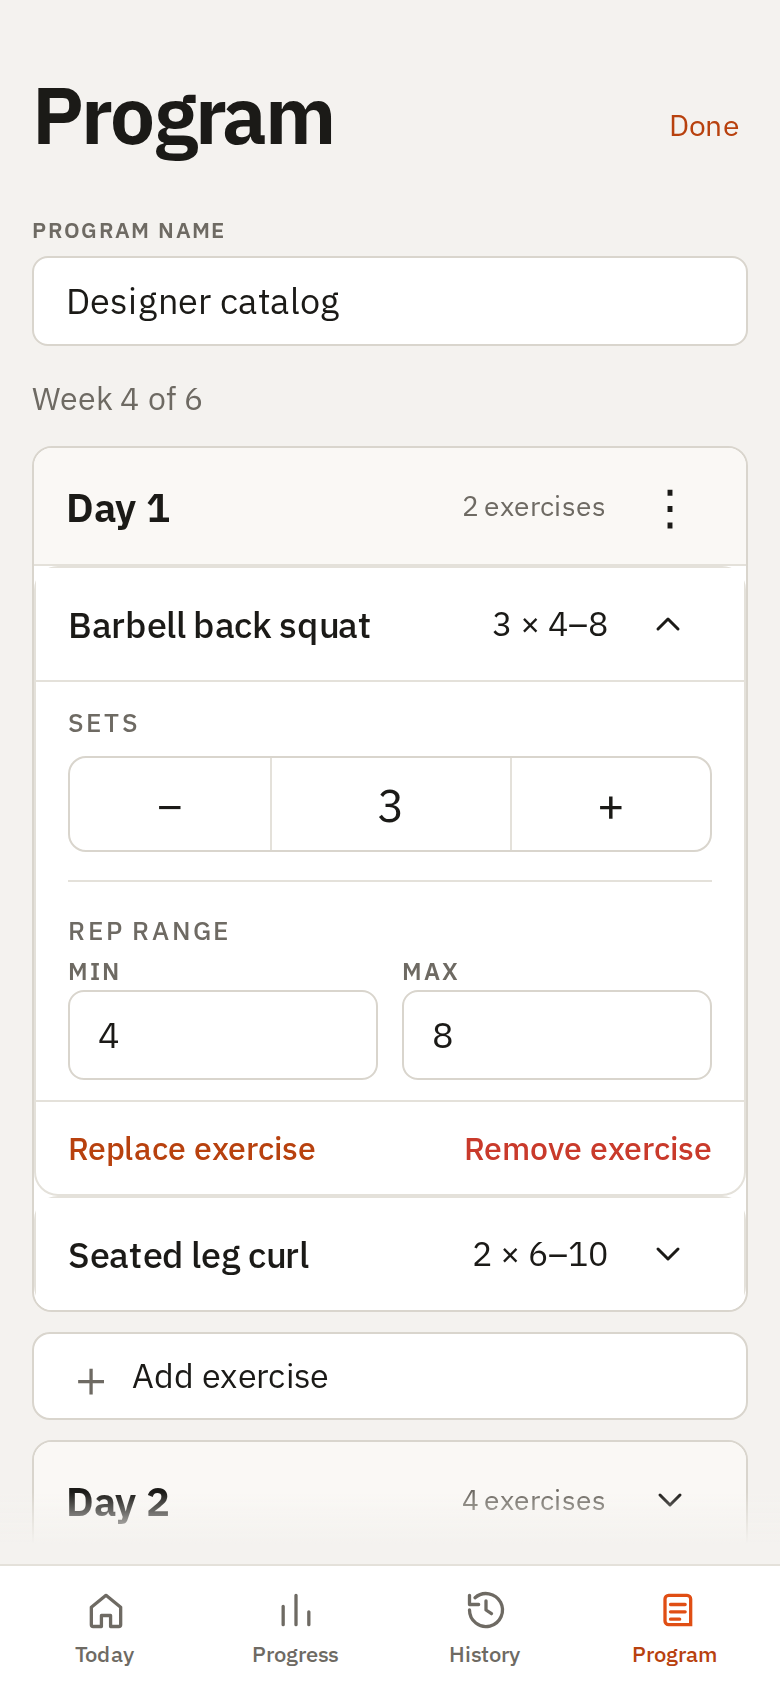
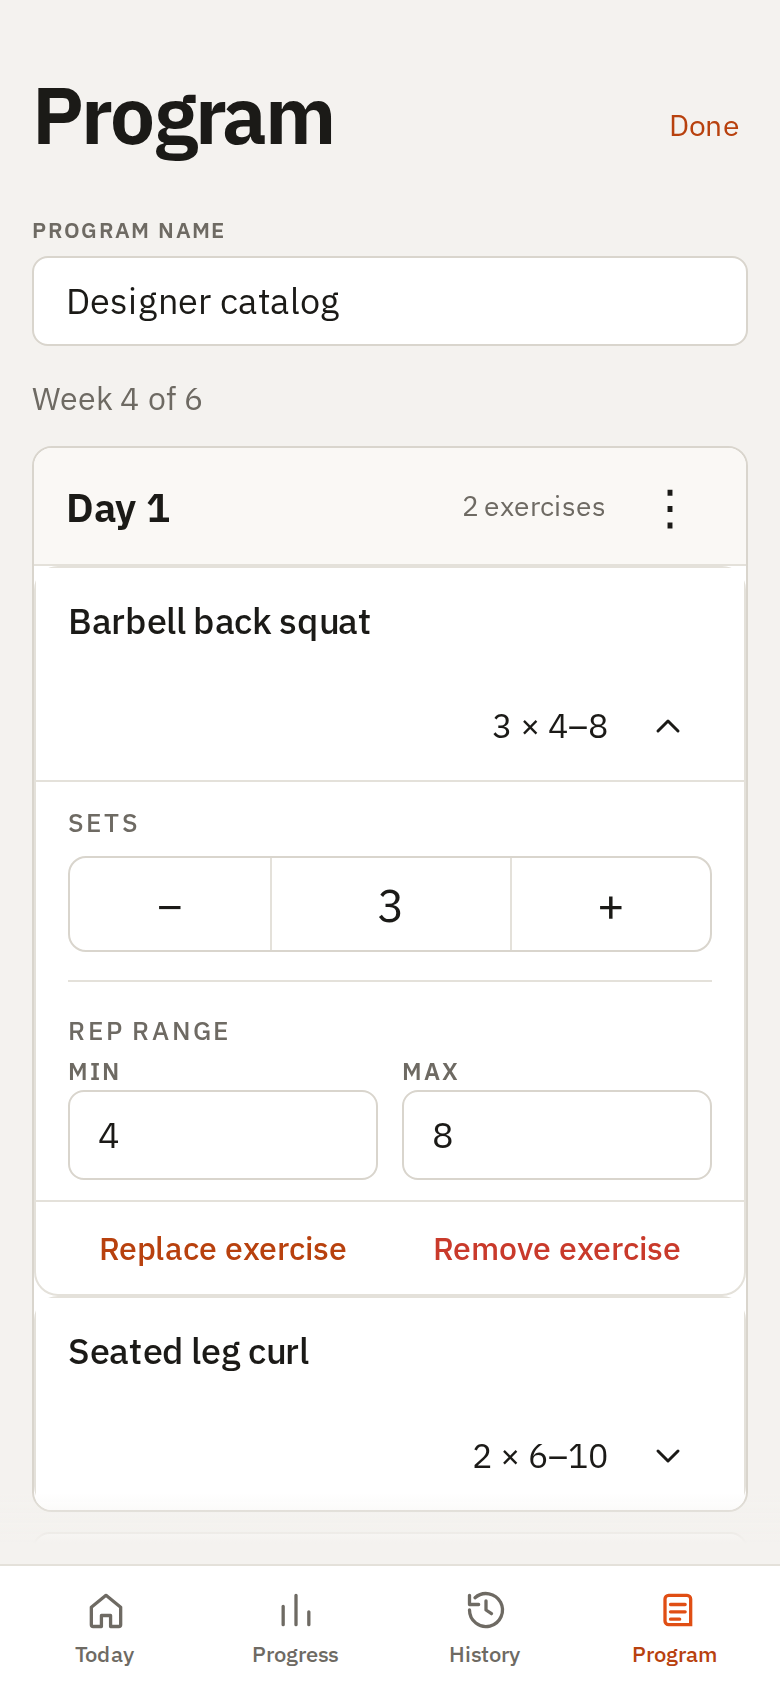
fix(ui): reflow installed editor rows

diff --git a/styles.css b/styles.css
@@ -2046,6 +2046,9 @@ td{font-size:13px;color:var(--ink);font-variant-numeric:tabular-nums}
 .program-editor-installed .program-editor__days{gap:10px}
 .program-editor-installed .program-editor__day-head{min-height:58px;padding:7px 16px}
 .program-editor-installed .program-editor__exercise-head{min-height:56px;padding:5px 16px}
+.program-editor-installed .program-editor__exercise-head{flex-wrap:wrap;align-items:flex-start}
+.program-editor-installed .program-editor__exercise-name{flex:1 1 calc(100% - 52px);white-space:normal;overflow-wrap:anywhere;line-height:1.25}
+.program-editor-installed .program-editor__summary{margin-left:auto;align-self:center}
 .program-editor-installed .program-editor__exercise-body{padding:12px 16px 0}
 .program-editor-installed .program-editor__sets{display:block;min-height:0}
 .program-editor-installed .program-editor__sets .program-editor__field-label{display:block;margin-bottom:8px}
@@ -2054,8 +2057,8 @@ td{font-size:13px;color:var(--ink);font-variant-numeric:tabular-nums}
 .program-editor-installed .program-editor__rep-rule{margin:14px 0 16px}
 .program-editor-installed .program-editor__range{row-gap:12px}
 .program-editor-installed .program-editor__range input{margin-top:2px;padding:10px 14px}
-.program-editor-installed .program-editor__exercise-actions{margin-top:10px}
-.program-editor-installed .program-editor__exercise-actions button{min-height:46px}
+.program-editor-installed .program-editor__exercise-actions{flex-wrap:wrap;margin-top:10px}
+.program-editor-installed .program-editor__exercise-actions button{flex:1 1 8rem;min-width:0;min-height:46px;white-space:normal}
 .program-editor-installed .program-editor__add{
   min-height:44px;margin:0;padding:6px 16px;border:1px solid var(--rule-strong);border-radius:9px;
   background:var(--surface);color:var(--ink);font-size:17px

diff --git a/sw.js b/sw.js
@@ -1,9 +1,9 @@
-const CACHE = "repforge-v181";
+const CACHE = "repforge-v183";
 const ASSETS = [
   "./", "./index.html", "./styles.css", "./manifest.webmanifest",
   "./telemetry.js", "./posthog-init.js", "./schedule.js", "./notify.js", "./i18n.js", "./exercises.js",
-  "./progression-engine.js", "./program-compiler.js", "./program-compiler.js?v=181", "./program-entry.js", "./program-entry.js?v=181", "./program-entry-adapter.js", "./program-entry-adapter.js?v=181", "./program-editor.js", "./program-editor.js?v=168",
-  "./shared-setup.js", "./shared-setup.js?v=181", "./app.js", "./app.js?v=181",
+  "./progression-engine.js", "./program-compiler.js", "./program-compiler.js?v=183", "./program-entry.js", "./program-entry.js?v=183", "./program-entry-adapter.js", "./program-entry-adapter.js?v=183", "./program-editor.js", "./program-editor.js?v=168",
+  "./shared-setup.js", "./shared-setup.js?v=183", "./app.js", "./app.js?v=183",
   "./icons/icon.svg", "./icons/favicon-32.png", "./icons/icon-192.png",
   "./icons/icon-512.png", "./icons/icon-1024.png",
   "./icons/icon-maskable-512.png", "./icons/apple-touch-icon.png",

diff --git a/index.html b/index.html
@@ -935,11 +935,11 @@
   <script src="i18n.js"></script>
   <script src="exercises.js"></script>
   <script src="progression-engine.js"></script>
-  <script src="program-compiler.js?v=181"></script>
-  <script src="program-entry.js?v=181"></script>
-  <script src="program-entry-adapter.js?v=181"></script>
+  <script src="program-compiler.js?v=183"></script>
+  <script src="program-entry.js?v=183"></script>
+  <script src="program-entry-adapter.js?v=183"></script>
   <script src="program-editor.js?v=168"></script>
-  <script src="shared-setup.js?v=181"></script>
-  <script src="app.js?v=181"></script>
+  <script src="shared-setup.js?v=183"></script>
+  <script src="app.js?v=183"></script>
 </body>
 </html>
